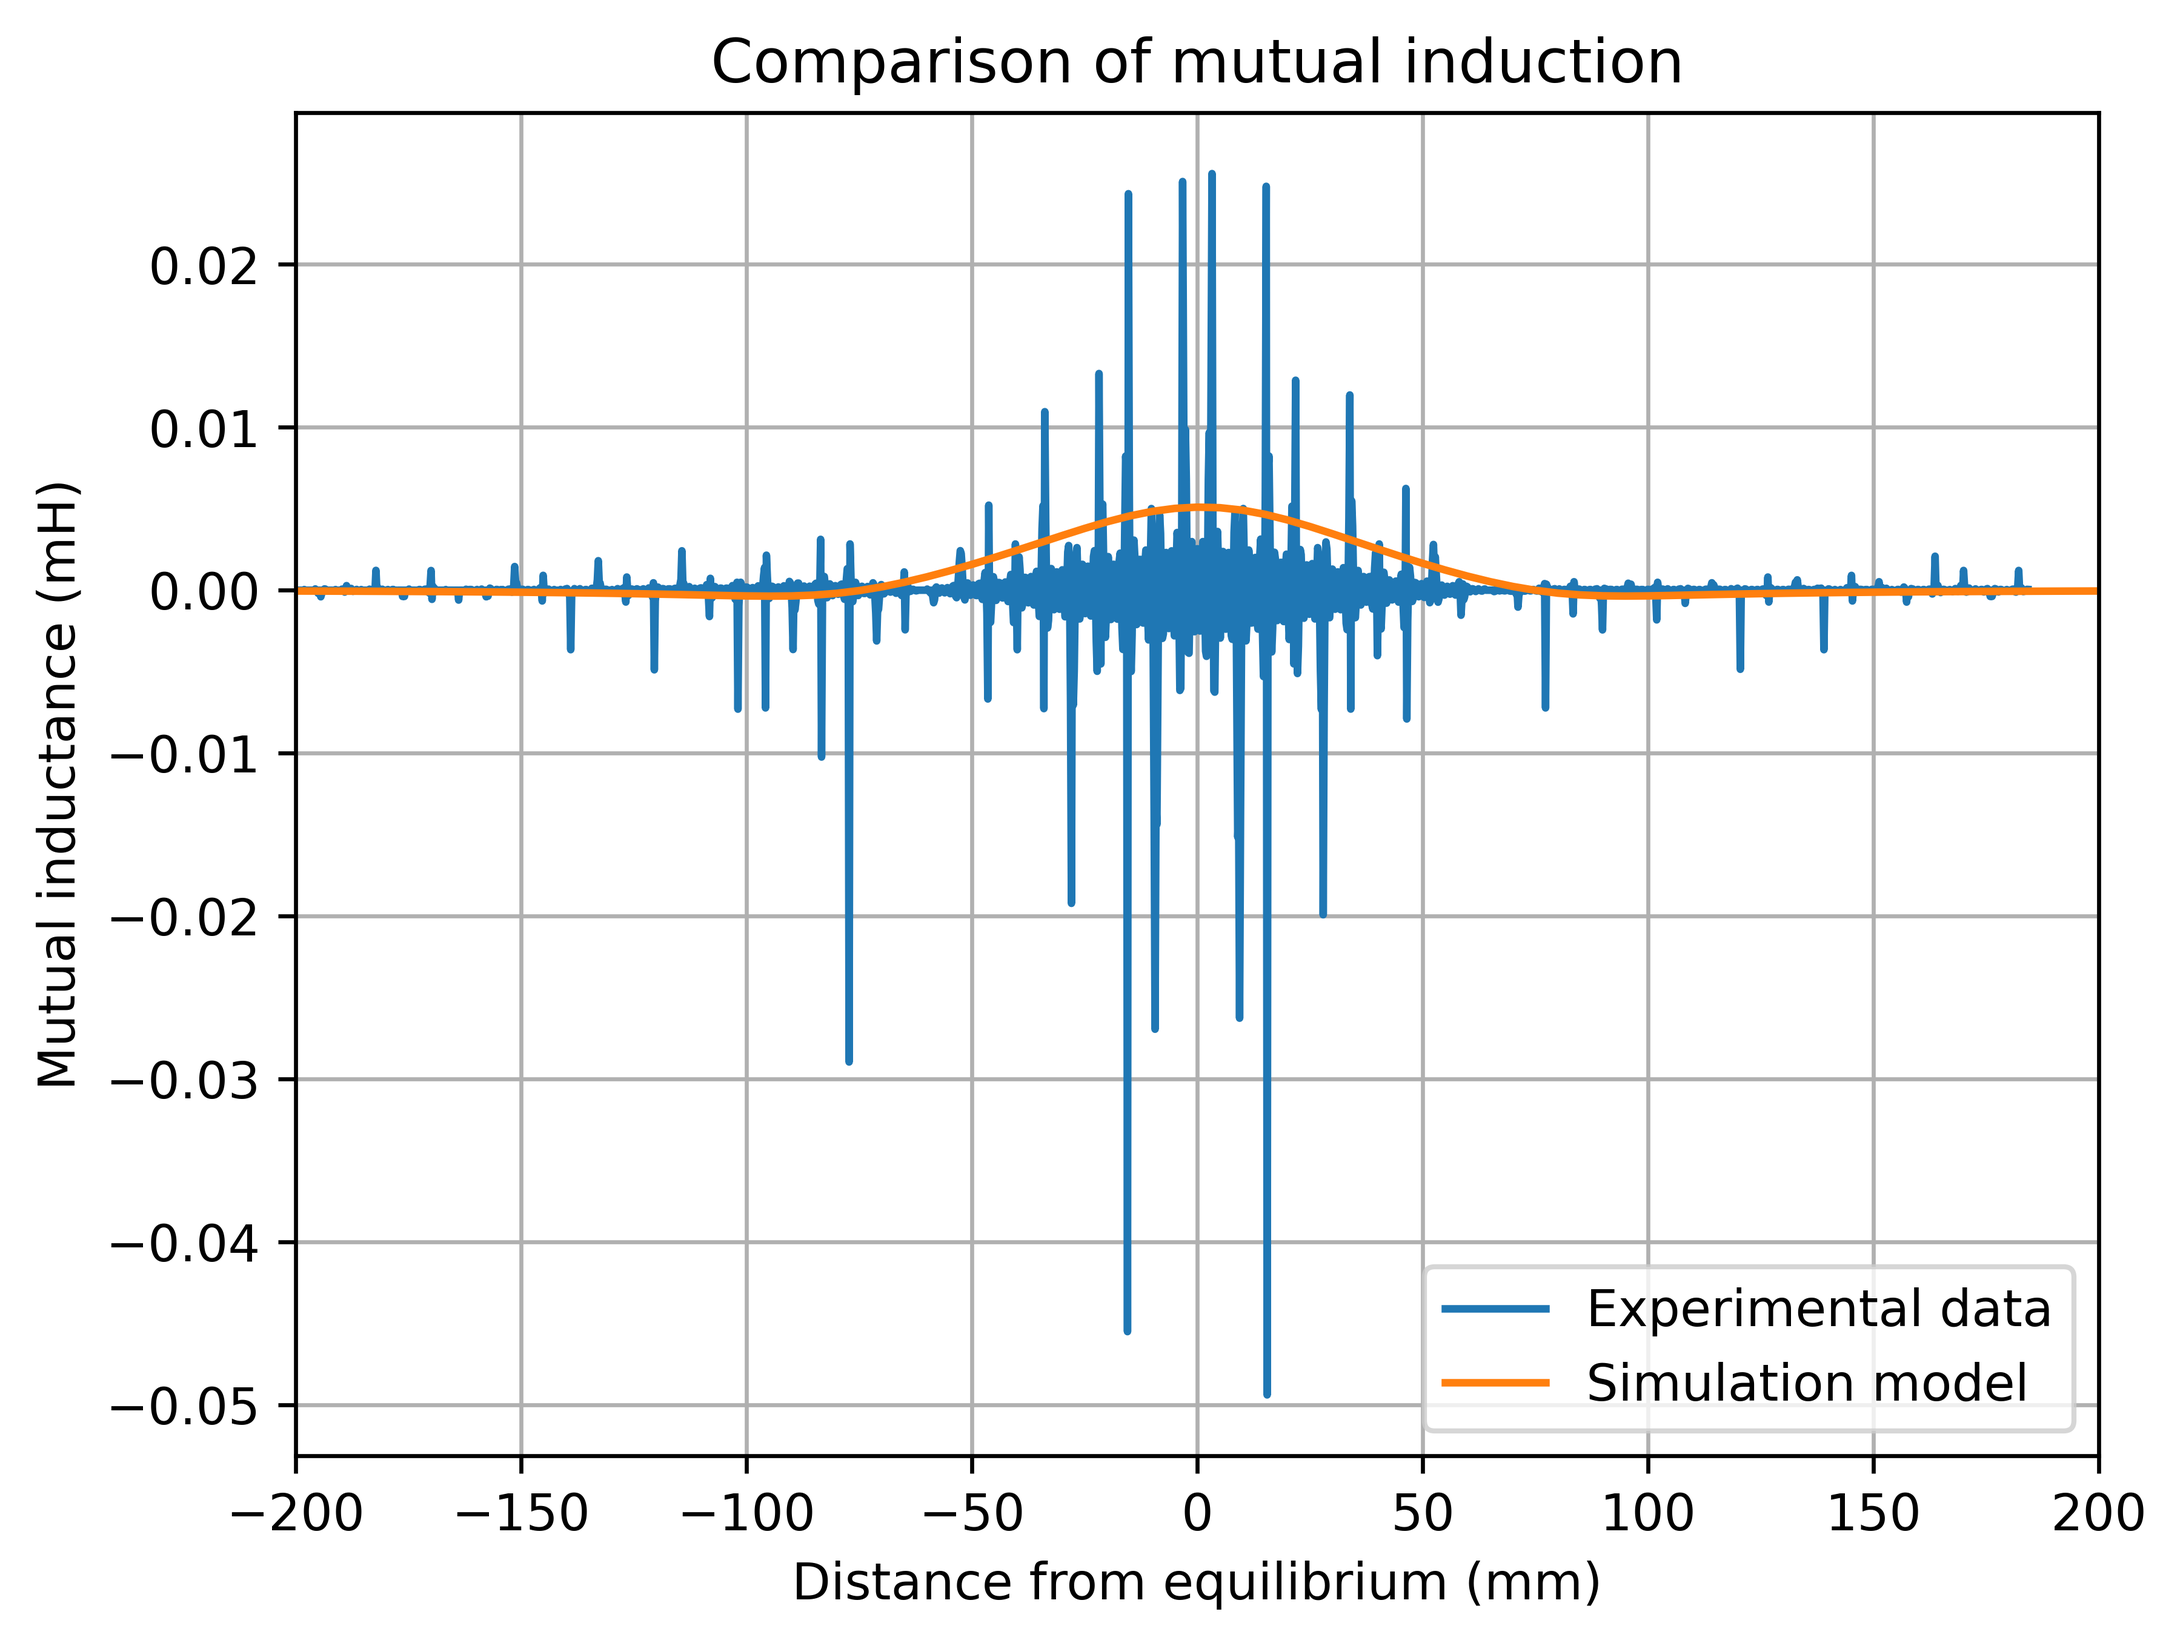
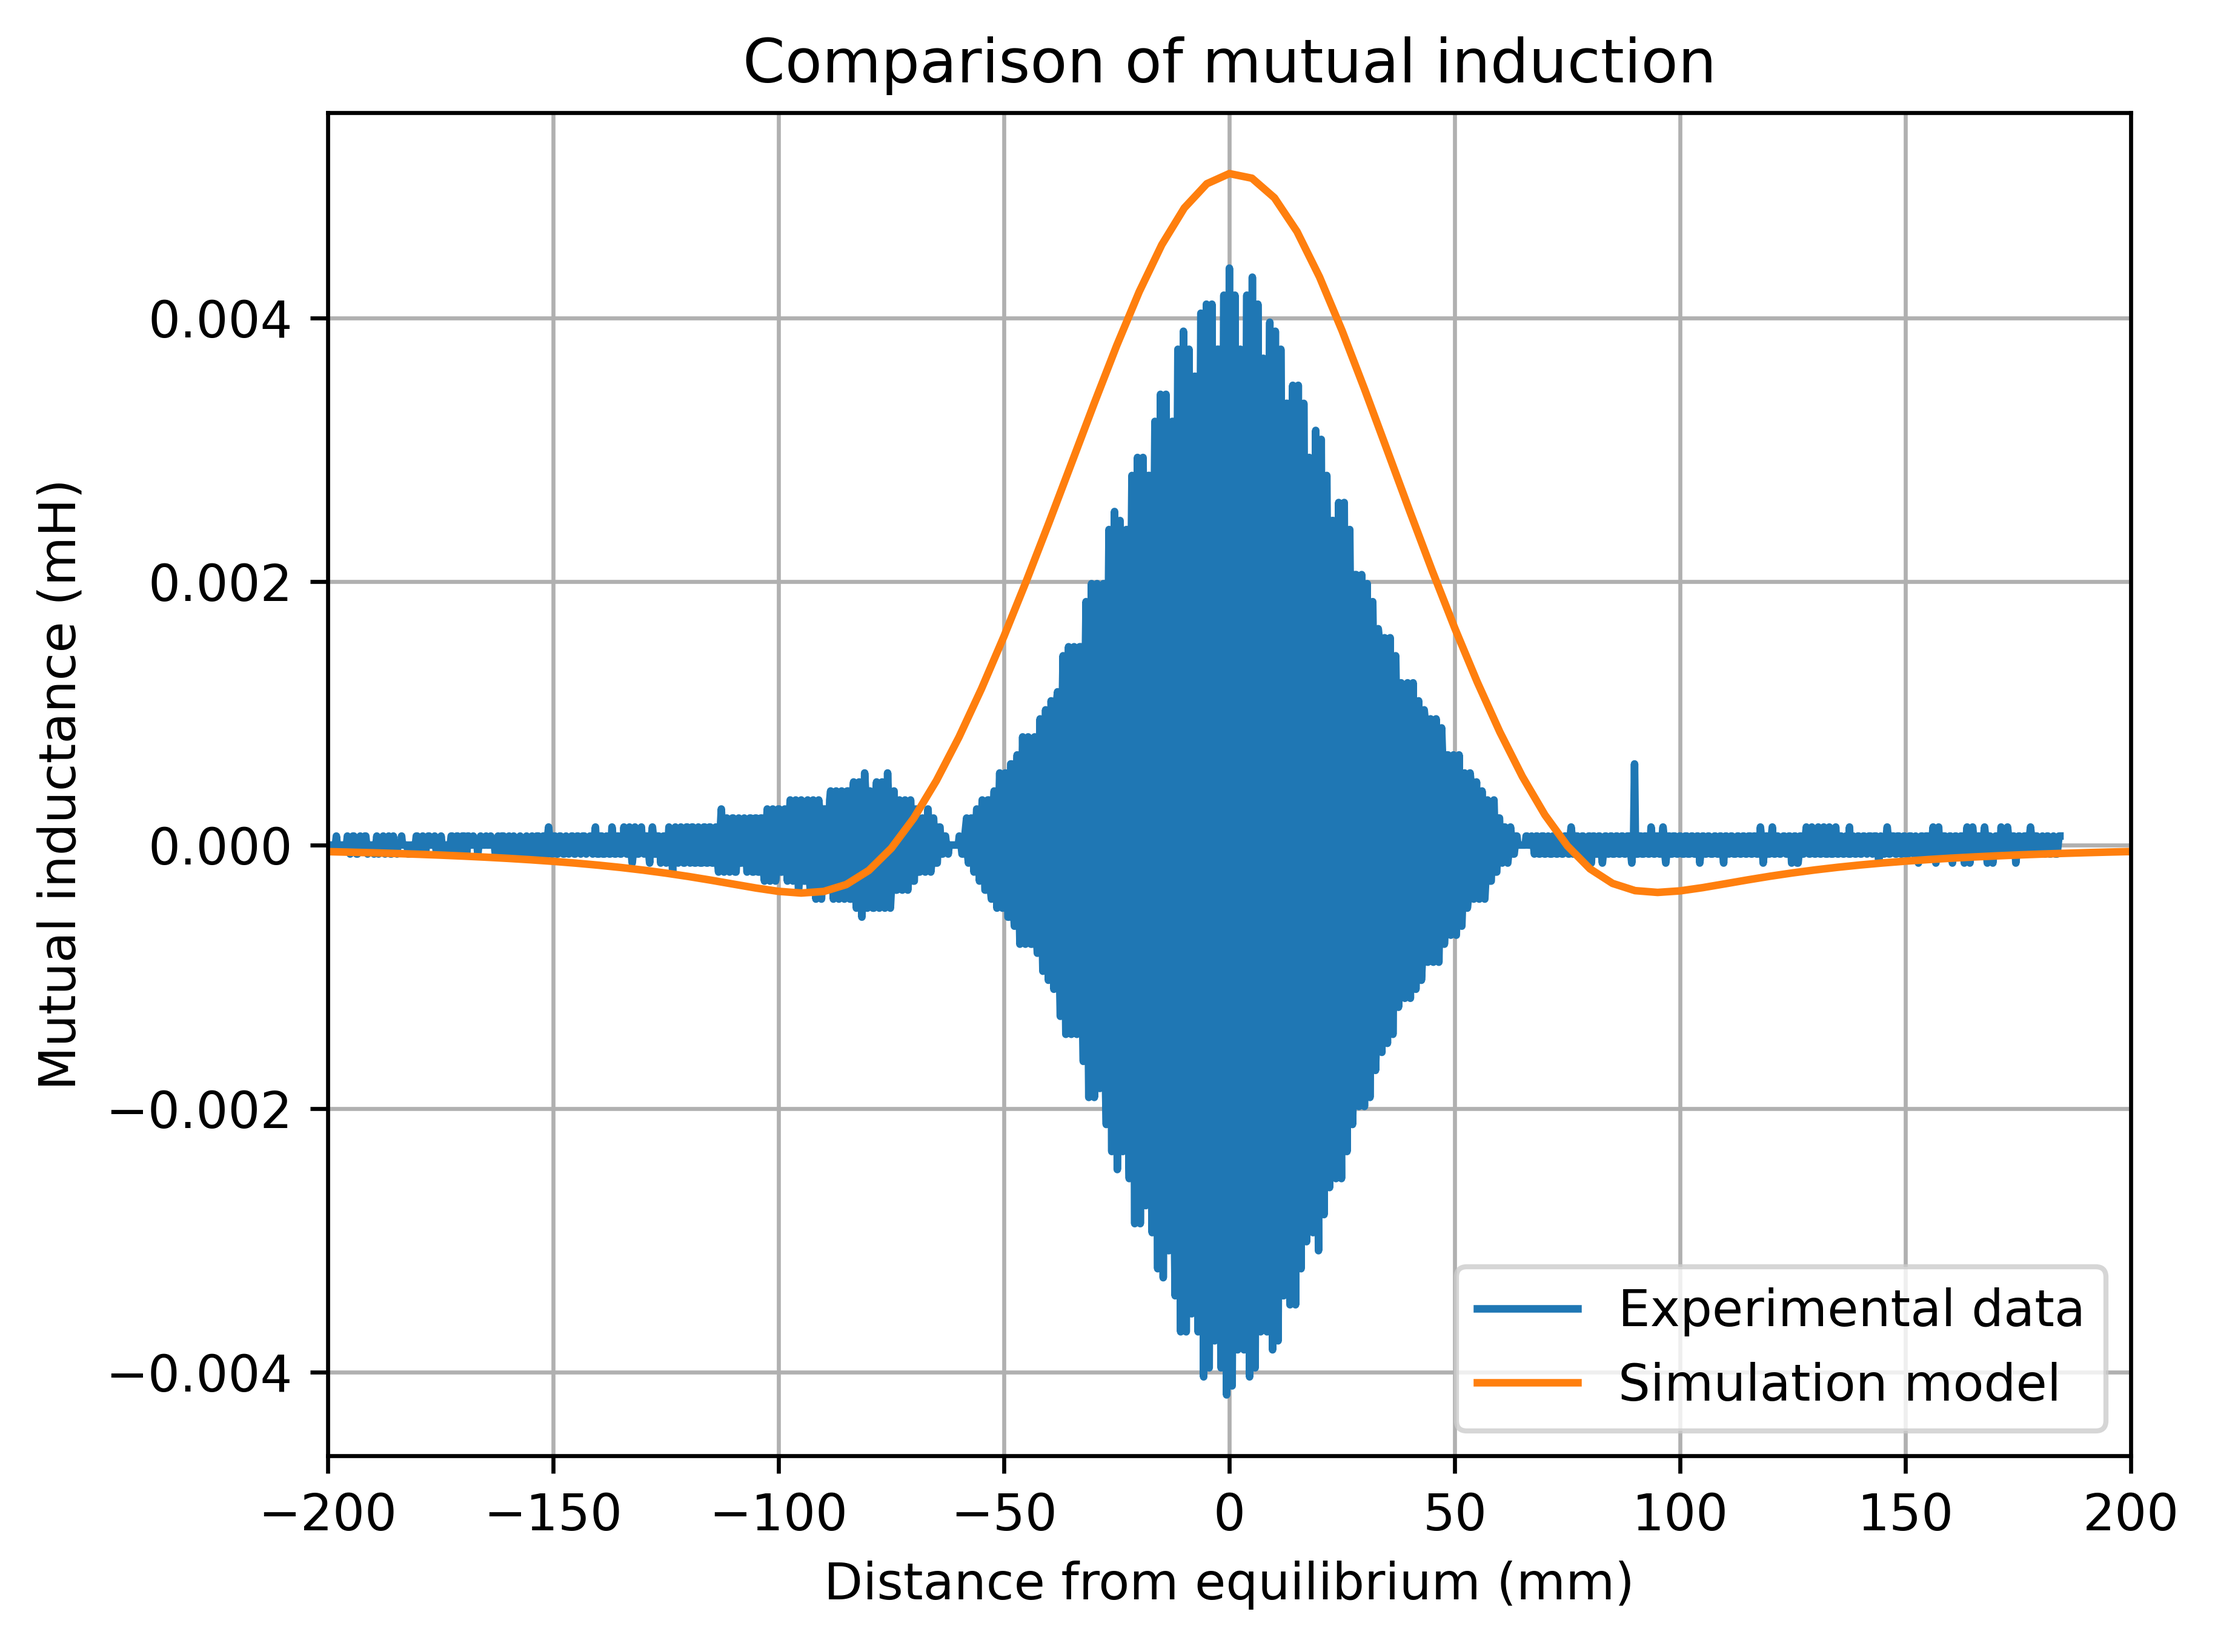
consistent with lab book

diff --git a/dataAnalysis.py b/dataAnalysis.py
@@ -37,7 +37,7 @@ expT, expE = extract('Data/exp1.csv',3)     #expT is time (s), expE is induced E
 #Initial conditions
 Vs = 2              # (V) Source, driving potential difference
 Rs = 0.5            # (Ω) Source resistance
-f = 10814.917055/(2*np.pi)          # (Hz) Source, driving frequency
+f = 1000          # (Hz) Source, driving frequency
 velocity = 0.05     # (m/s) lift velocity
 
 
@@ -62,21 +62,21 @@ maxEIndex = np.where(expE == maxE)  #and find the index position
 expD -= expD[maxEIndex]             #and now subtract by that distance
 
 
-expM = expE/(Is*ω*np.cos(ω*expD/(velocity*1e3)))                     #Mutual inductance equation for t = n*ω/2π
+expM = expE/(Is*ω)                     #Mutual inductance equation for t = n*ω/2π
                                     #not comletely correct as there should be a
                                     #sin(ωt) component in the denominator but it
                                     #kinda fucks up with the discretisation of the
                                     #picoscope
 
 #clean the broken data points
-deletePoints = []
-for i in range(len(expM)):
-    if np.abs(expM[i]) > np.amax(compM)*20:
-        deletePoints.append(i)
-
-expM = np.delete(expM,deletePoints)
-expD = np.delete(expD,deletePoints)
-
+# deletePoints = []
+# for i in range(len(expM)):
+#     if np.abs(expM[i]) > np.amax(compM)*20:
+#         deletePoints.append(i)
+#
+# expM = np.delete(expM,deletePoints)
+# expD = np.delete(expD,deletePoints)
+#
 
 #----plot the data----
 
